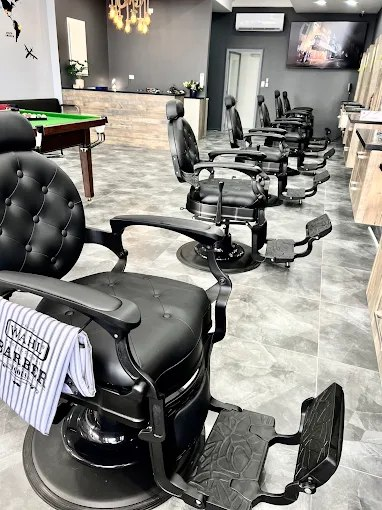
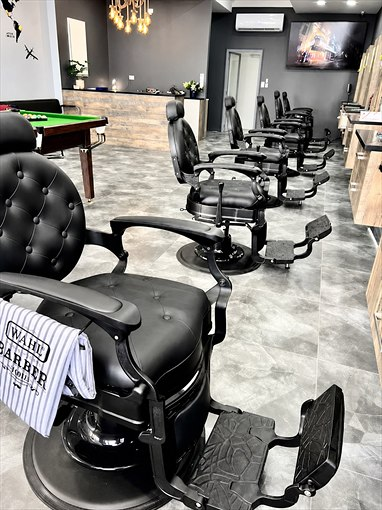
Replace the hero photo with the real 1085px original
The chairs photo was 382x510, and every larger size served from it was
interpolation. The original arrived at 1085x1450, so all three sizes are now
genuine: a 1085w master, and 764w and 382w downscaled from it rather than
guessed upward.

Deleted shop-chairs-1600.jpg. It was 1600px of enlargement from a 382px
source, which is exactly the stretching it was meant to avoid; 1085px of
real detail beats it comfortably and weighs 44KB less.

Crop and composition unchanged. The gallery tile that reuses this photo
picks up the same srcset.

diff --git a/index.html b/index.html
@@ -82,10 +82,10 @@
         <img src="images/shop-chairs-764.jpg"
              srcset="images/shop-chairs.jpg 382w,
                      images/shop-chairs-764.jpg 764w,
-                     images/shop-chairs-1600.jpg 1600w"
+                     images/shop-chairs-1085.jpg 1085w"
              sizes="(max-width: 900px) 100vw, 42vw"
              alt="Barber chairs lined up on the shop floor at Imperial Barbers"
-             width="1600" height="2136" fetchpriority="high" decoding="async">
+             width="1085" height="1450" fetchpriority="high" decoding="async">
       </figure>
     </div>
 
@@ -301,10 +301,12 @@
 
         <figure class="plate-img plate-img--c" data-reveal>
           <img src="images/shop-chairs.jpg"
-               srcset="images/shop-chairs.jpg 382w, images/shop-chairs-764.jpg 764w"
+               srcset="images/shop-chairs.jpg 382w,
+                       images/shop-chairs-764.jpg 764w,
+                       images/shop-chairs-1085.jpg 1085w"
                sizes="(max-width: 860px) 92vw, 30vw"
                alt="Classic black barber chairs with a fresh striped cape over the armrest"
-               width="764" height="1020" loading="lazy" decoding="async">
+               width="1085" height="1450" loading="lazy" decoding="async">
           <figcaption>Chairs set up for the afternoon.</figcaption>
         </figure>
 

diff --git a/README.md b/README.md
@@ -16,8 +16,9 @@ whole folder to any host (Netlify, Cloudflare Pages, GitHub Pages, cPanel).
 
 ## Replacing the photos
 
-The photos currently in `images/` came from the versions pasted into chat, which
-are about 680px wide. They hold up on a phone and look fine on desktop behind the
+`shop-chairs` is the real photo at 1085x1450; its smaller sizes are true
+downscales of it. The other four came from versions pasted into chat and are
+about 680px wide. They hold up on a phone and look fine on desktop behind the
 dark hero wash, but the originals off the camera will look sharper.
 
 To swap them in, save the full-size files over these names — keep the names and
@@ -35,7 +36,7 @@ the shapes and nothing else needs changing:
 | `shop-reception.jpg`   | portrait 3:4   | Visit section + gallery         |
 | `shop-reception-764.jpg`| portrait 3:4  | the same, on 2x screens (gen.)  |
 | `shop-chairs.jpg`      | portrait 3:4   | hero photo + gallery            |
-| `shop-chairs-1600.jpg` | portrait 3:4   | hero on 2x screens (generated)  |
+| `shop-chairs-1085.jpg` | portrait 3:4   | hero + gallery at full size     |
 | `shop-chairs-764.jpg`  | portrait 3:4   | the same, on 2x screens (gen.)  |
 | `logo-mark.png`        | square, circle | header, footer                  |
 | `logo-hero.png`        | square, circle | the hero mark (720px)           |
